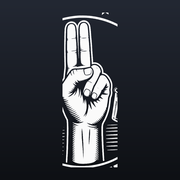
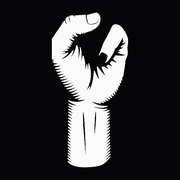
Clean hand contours, pure black background

diff --git a/scripts/make_icon.py b/scripts/make_icon.py
@@ -1,32 +1,16 @@
-from PIL import Image, ImageDraw
+import os
+
+from PIL import Image, ImageDraw, ImageFilter
 
 SIZE = 1024
 SS = 2
 
-GOLD_TOP = (233, 199, 95)
-GOLD_MID = (201, 162, 39)
-BG_TOP = (35, 40, 51)
-BG_BOTTOM = (14, 16, 20)
 WHITE = (250, 250, 250)
-
-# bounding box of the hand in public/shalom3.jpg (fractions of width/height)
+GOLD = (201, 162, 39)
 HAND_BOX = (0.410, 0.110, 0.650, 0.789)
+HAND_COLOR = os.environ.get("HAND_COLOR", "white")
 
-
-def gradient_img(w, h, top, bottom):
-    img = Image.new("RGB", (w, h))
-    dr = ImageDraw.Draw(img)
-    for y in range(h):
-        t = y / max(1, h - 1)
-        dr.line(
-            [(0, y), (w, y)],
-            fill=(
-                int(top[0] + (bottom[0] - top[0]) * t),
-                int(top[1] + (bottom[1] - top[1]) * t),
-                int(top[2] + (bottom[2] - top[2]) * t),
-            ),
-        )
-    return img
+W_TOTAL = SIZE * SS
 
 
 def extract_hand():
@@ -34,48 +18,64 @@ def extract_hand():
     w, h = src.size
     box = tuple(int(c * (w if i % 2 == 0 else h)) for i, c in enumerate(HAND_BOX))
     hand = src.crop(box)
-    # upscale for smooth compositing
     hand = hand.resize((hand.width * 6, hand.height * 6), Image.LANCZOS)
-    # white line art on black -> RGBA with white strokes, transparent bg
-    alpha = hand.point(lambda p: 0 if p < 60 else (255 if p > 160 else int((p - 60) * 255 / 100)))
-    art = Image.new("RGBA", hand.size, WHITE + (0,))
-    art.putalpha(alpha)
-    # trim to content
-    bbox = alpha.getbbox()
+
+    # binarize: strokes are bright, background and debris are dim
+    solid = hand.point(lambda p: 255 if p > 130 else 0).convert("L")
+
+    # remove small debris: keep only the largest connected component
+    visited = set()
+    best_size = 0
+    best_mask = None
+    width, height = solid.size
+    sp = solid.load()
+    for y in range(0, height, 2):
+        for x in range(0, width, 2):
+            if sp[x, y] == 255 and (x, y) not in visited:
+                # BFS flood fill of this component
+                component = []
+                stack = [(x, y)]
+                seen = set()
+                while stack:
+                    cx, cy = stack.pop()
+                    if (cx, cy) in seen or sp[min(cx, width - 1), min(cy, height - 1)] != 255:
+                        continue
+                    seen.add((cx, cy))
+                    component.append((cx, cy))
+                    for nx, ny in ((cx+2, cy), (cx-2, cy), (cx, cy+2), (cx, cy-2)):
+                        if 0 <= nx < width and 0 <= ny < height and (nx, ny) not in seen:
+                            stack.append((nx, ny))
+                visited |= seen
+                if len(component) > best_size:
+                    best_size = len(component)
+                    best_mask = seen
+
+    keep = Image.new("L", solid.size, 0)
+    kp = keep.load()
+    for (cx, cy) in best_mask:
+        kp[cx, cy] = 255
+        # fill the 2px sampling gaps
+        for dx in range(2):
+            for dy in range(2):
+                if cx + dx < width and cy + dy < height:
+                    kp[cx + dx, cy + dy] = 255
+
+    # smooth the mask so strokes stay continuous
+    keep = keep.filter(ImageFilter.MaxFilter(5)).filter(ImageFilter.GaussianBlur(1.5))
+    # re-binarize softly for clean edges
+    keep = keep.point(lambda p: 255 if p > 40 else 0)
+
+    color = GOLD if HAND_COLOR == "gold" else WHITE
+    art = Image.new("RGBA", solid.size, color + (0,))
+    art.putalpha(keep)
+    bbox = keep.getbbox()
     return art.crop(bbox)
 
 
-def draw_shalom(d, s, y0_units, scale, color, width):
-    GLYPHS = {
-        'S': [((30,0),(70,0)), ((30,0),(30,60)), ((30,60),(70,60)), ((70,60),(70,120)), ((70,120),(30,120))],
-        'H': [((30,0),(30,120)), ((70,0),(70,120)), ((30,60),(70,60))],
-        'A': [((50,0),(10,120)), ((50,0),(90,120)), ((28,80),(72,80))],
-        'L': [((30,0),(30,120)), ((30,120),(80,120))],
-        'O': [((50,0),(20,20)), ((20,20),(20,100)), ((20,100),(50,120)), ((50,120),(80,100)), ((80,100),(80,20)), ((80,20),(50,0))],
-        'M': [((20,120),(20,0)), ((20,0),(50,50)), ((50,50),(80,0)), ((80,0),(80,120))],
-    }
-    text = "SHALOM"
-    total_units = 100 * len(text) + 30 * (len(text) - 1)
-    x0 = (W_TOTAL - total_units * scale) // 2
-    for i, ch in enumerate(text):
-        gx = x0 + i * 130 * scale
-        for (px1, py1), (px2, py2) in GLYPHS[ch]:
-            d.line(
-                (gx + px1 * scale, y0_units + py1 * scale, gx + px2 * scale, y0_units + py2 * scale),
-                fill=color,
-                width=width,
-            )
-
-
-W_TOTAL = SIZE * SS
-
-
 def build():
-    bg = gradient_img(W_TOTAL, W_TOTAL, BG_TOP, BG_BOTTOM).convert("RGBA")
-
+    bg = Image.new("RGBA", (W_TOTAL, W_TOTAL), (5, 5, 8, 255))
     hand = extract_hand()
-    # hand fills the icon almost entirely, centered with even margins
-    target_w = int(0.86 * W_TOTAL)
+    target_w = int(0.80 * W_TOTAL)
     ratio = hand.height / hand.width
     target_h = int(target_w * ratio)
     if target_h > int(0.86 * W_TOTAL):
@@ -85,23 +85,25 @@ def build():
     hx = (W_TOTAL - target_w) // 2
     hy = (W_TOTAL - target_h) // 2
     bg.alpha_composite(hand, (hx, hy))
-
-    d = ImageDraw.Draw(bg)
-
-    return bg.resize((SIZE, SIZE), Image.LANCZOS).convert("RGB")
+    return bg.convert("RGB")
 
 
-icon = build()
-icon.save("app/icon.png")
-icon.save("public/icon-512.png")
-icon.resize((192, 192), Image.LANCZOS).save("public/icon-192.png")
-icon.resize((180, 180), Image.LANCZOS).save("public/apple-touch-icon.png")
-icon.resize((48, 48), Image.LANCZOS).save("public/favicon.ico", sizes=[(16, 16), (32, 32), (48, 48)])
-icon.resize((32, 32), Image.LANCZOS).save("public/favicon-32.png")
+def emit(icon, suffix=""):
+    icon.save(f"app/icon{suffix}.png")
+    icon.save(f"public/icon-512{suffix}.png")
+    icon.resize((192, 192), Image.LANCZOS).save(f"public/icon-192{suffix}.png")
+    icon.resize((180, 180), Image.LANCZOS).save(f"public/apple-touch-icon{suffix}.png")
+    icon.resize((48, 48), Image.LANCZOS).save(f"public/favicon{suffix}.ico", sizes=[(16, 16), (32, 32), (48, 48)])
+    icon.resize((32, 32), Image.LANCZOS).save(f"public/favicon-32{suffix}.png")
+    maskable = icon.copy()
+    small = icon.resize((640, 640), Image.LANCZOS)
+    maskable.paste(small, (192, 192))
+    maskable.save(f"public/icon-maskable-512{suffix}.png")
+    maskable.resize((192, 192), Image.LANCZOS).save(f"public/icon-maskable-192{suffix}.png")
 
-maskable = icon.copy()
-small = icon.resize((640, 640), Image.LANCZOS)
-maskable.paste(small, (192, 192))
-maskable.save("public/icon-maskable-512.png")
-maskable.resize((192, 192), Image.LANCZOS).save("public/icon-maskable-192.png")
+
+icon = build().resize((SIZE, SIZE), Image.LANCZOS)
+emit(icon)
+# gold variant saved alongside for comparison
+gold = build()
 print("done")
